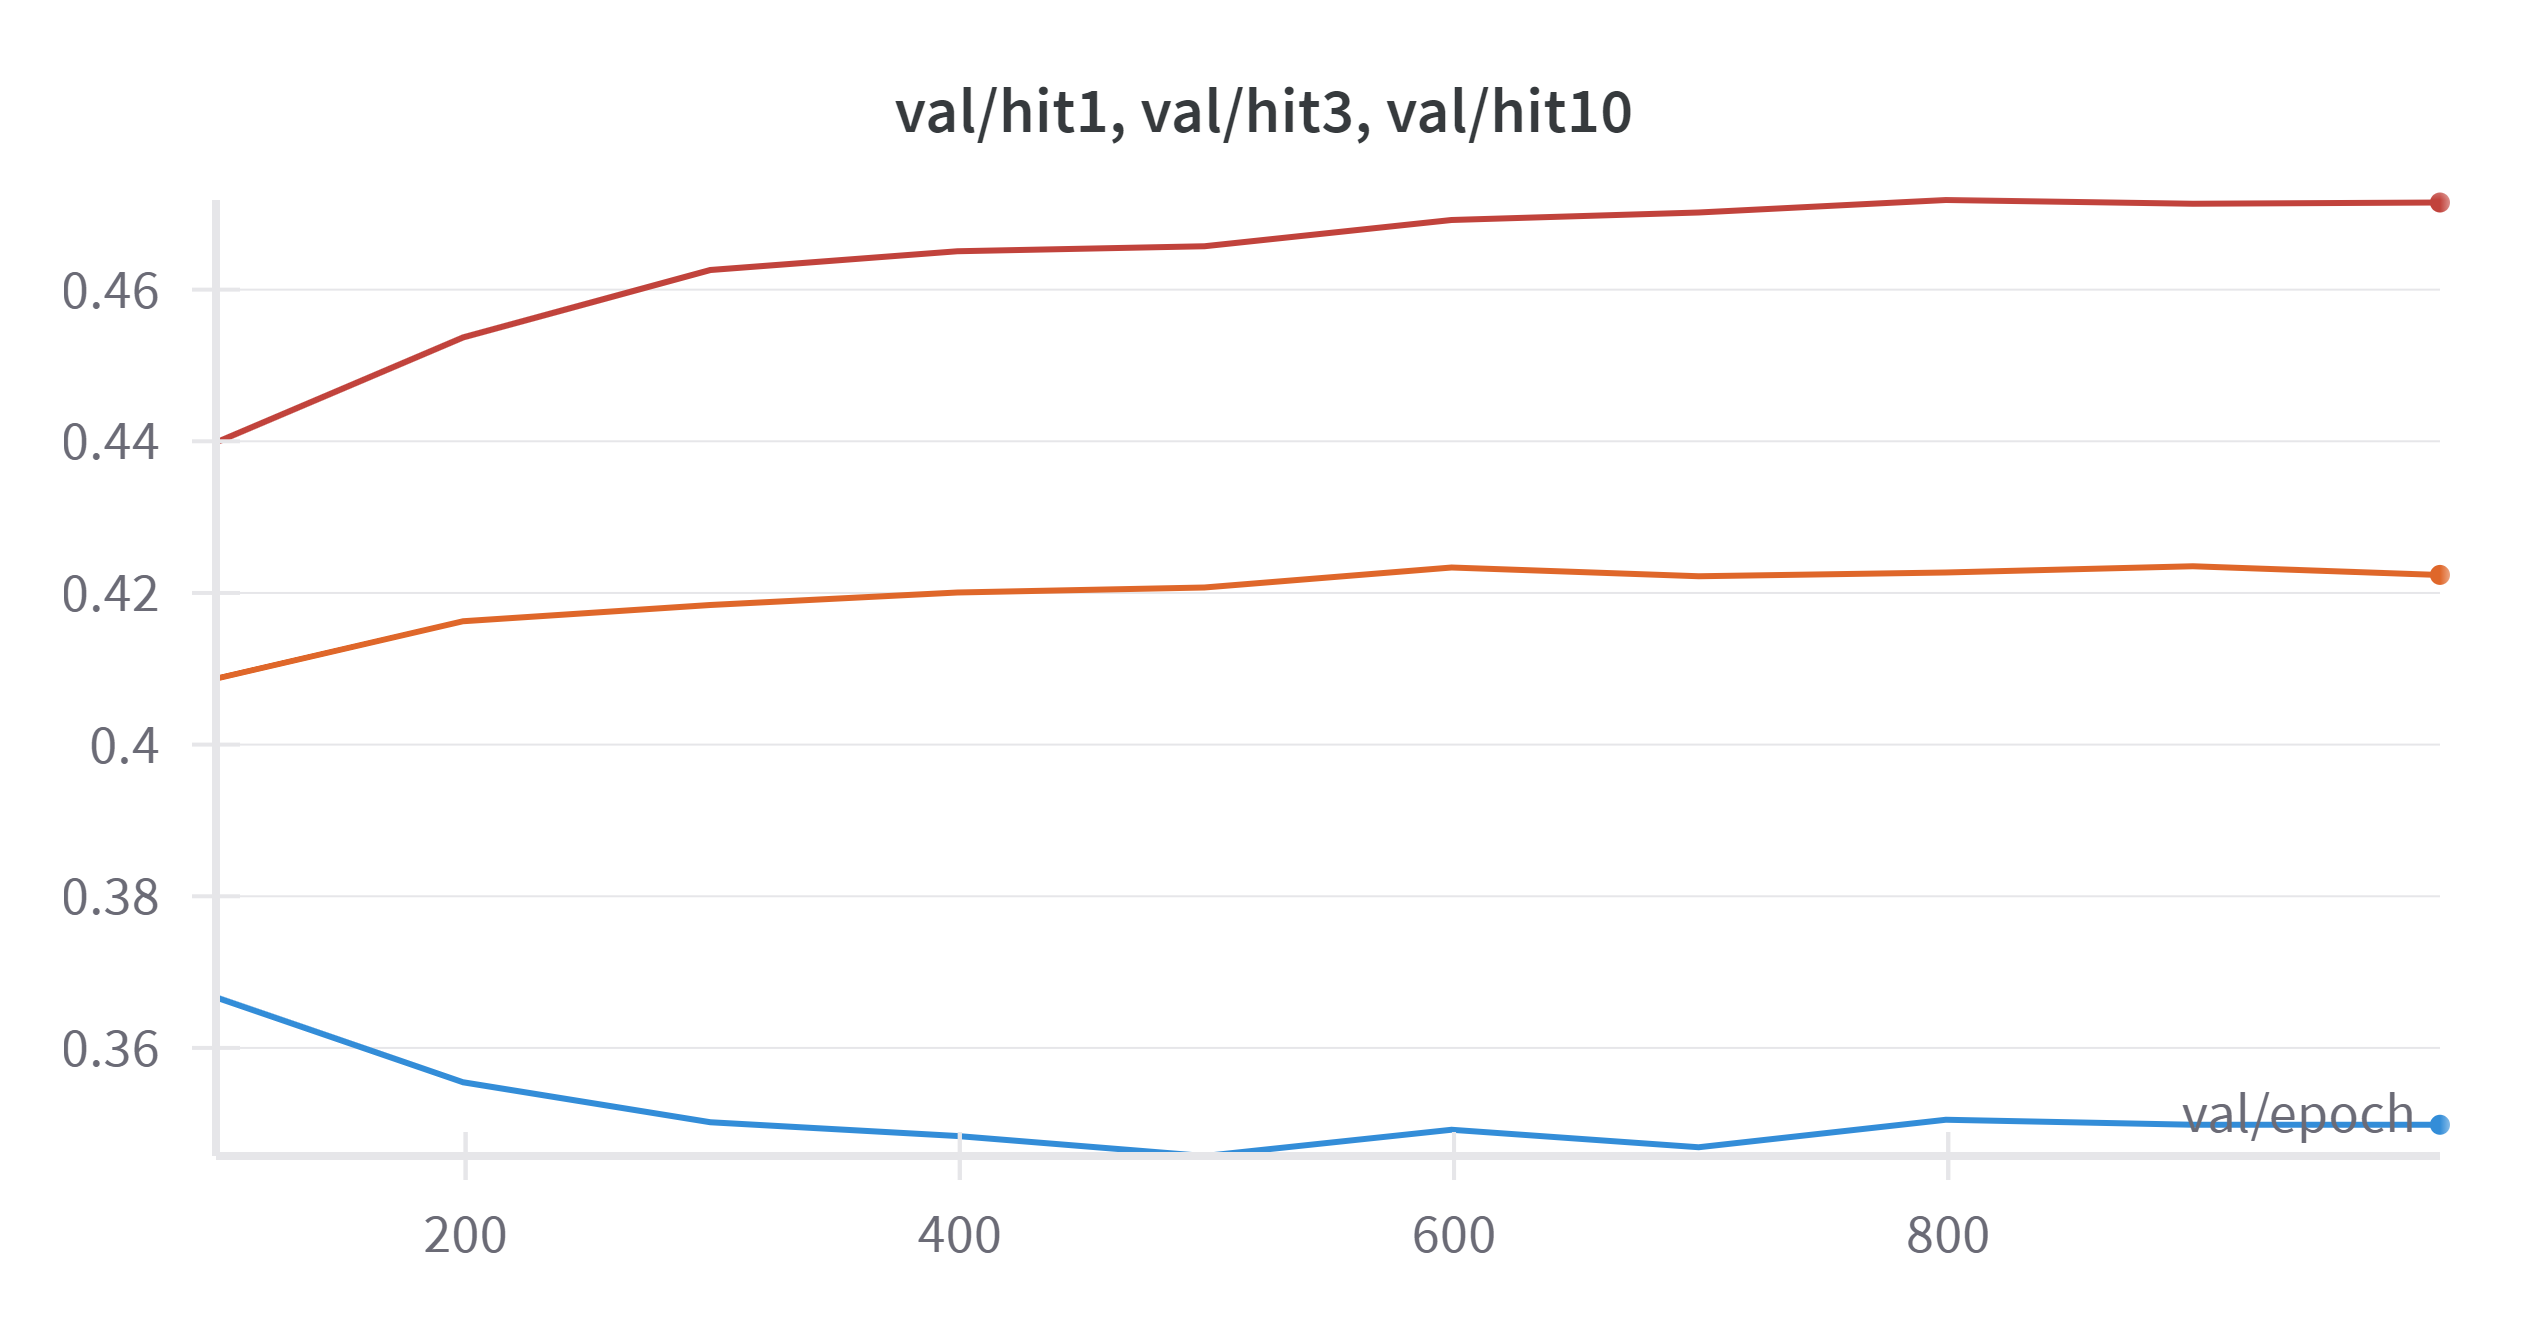
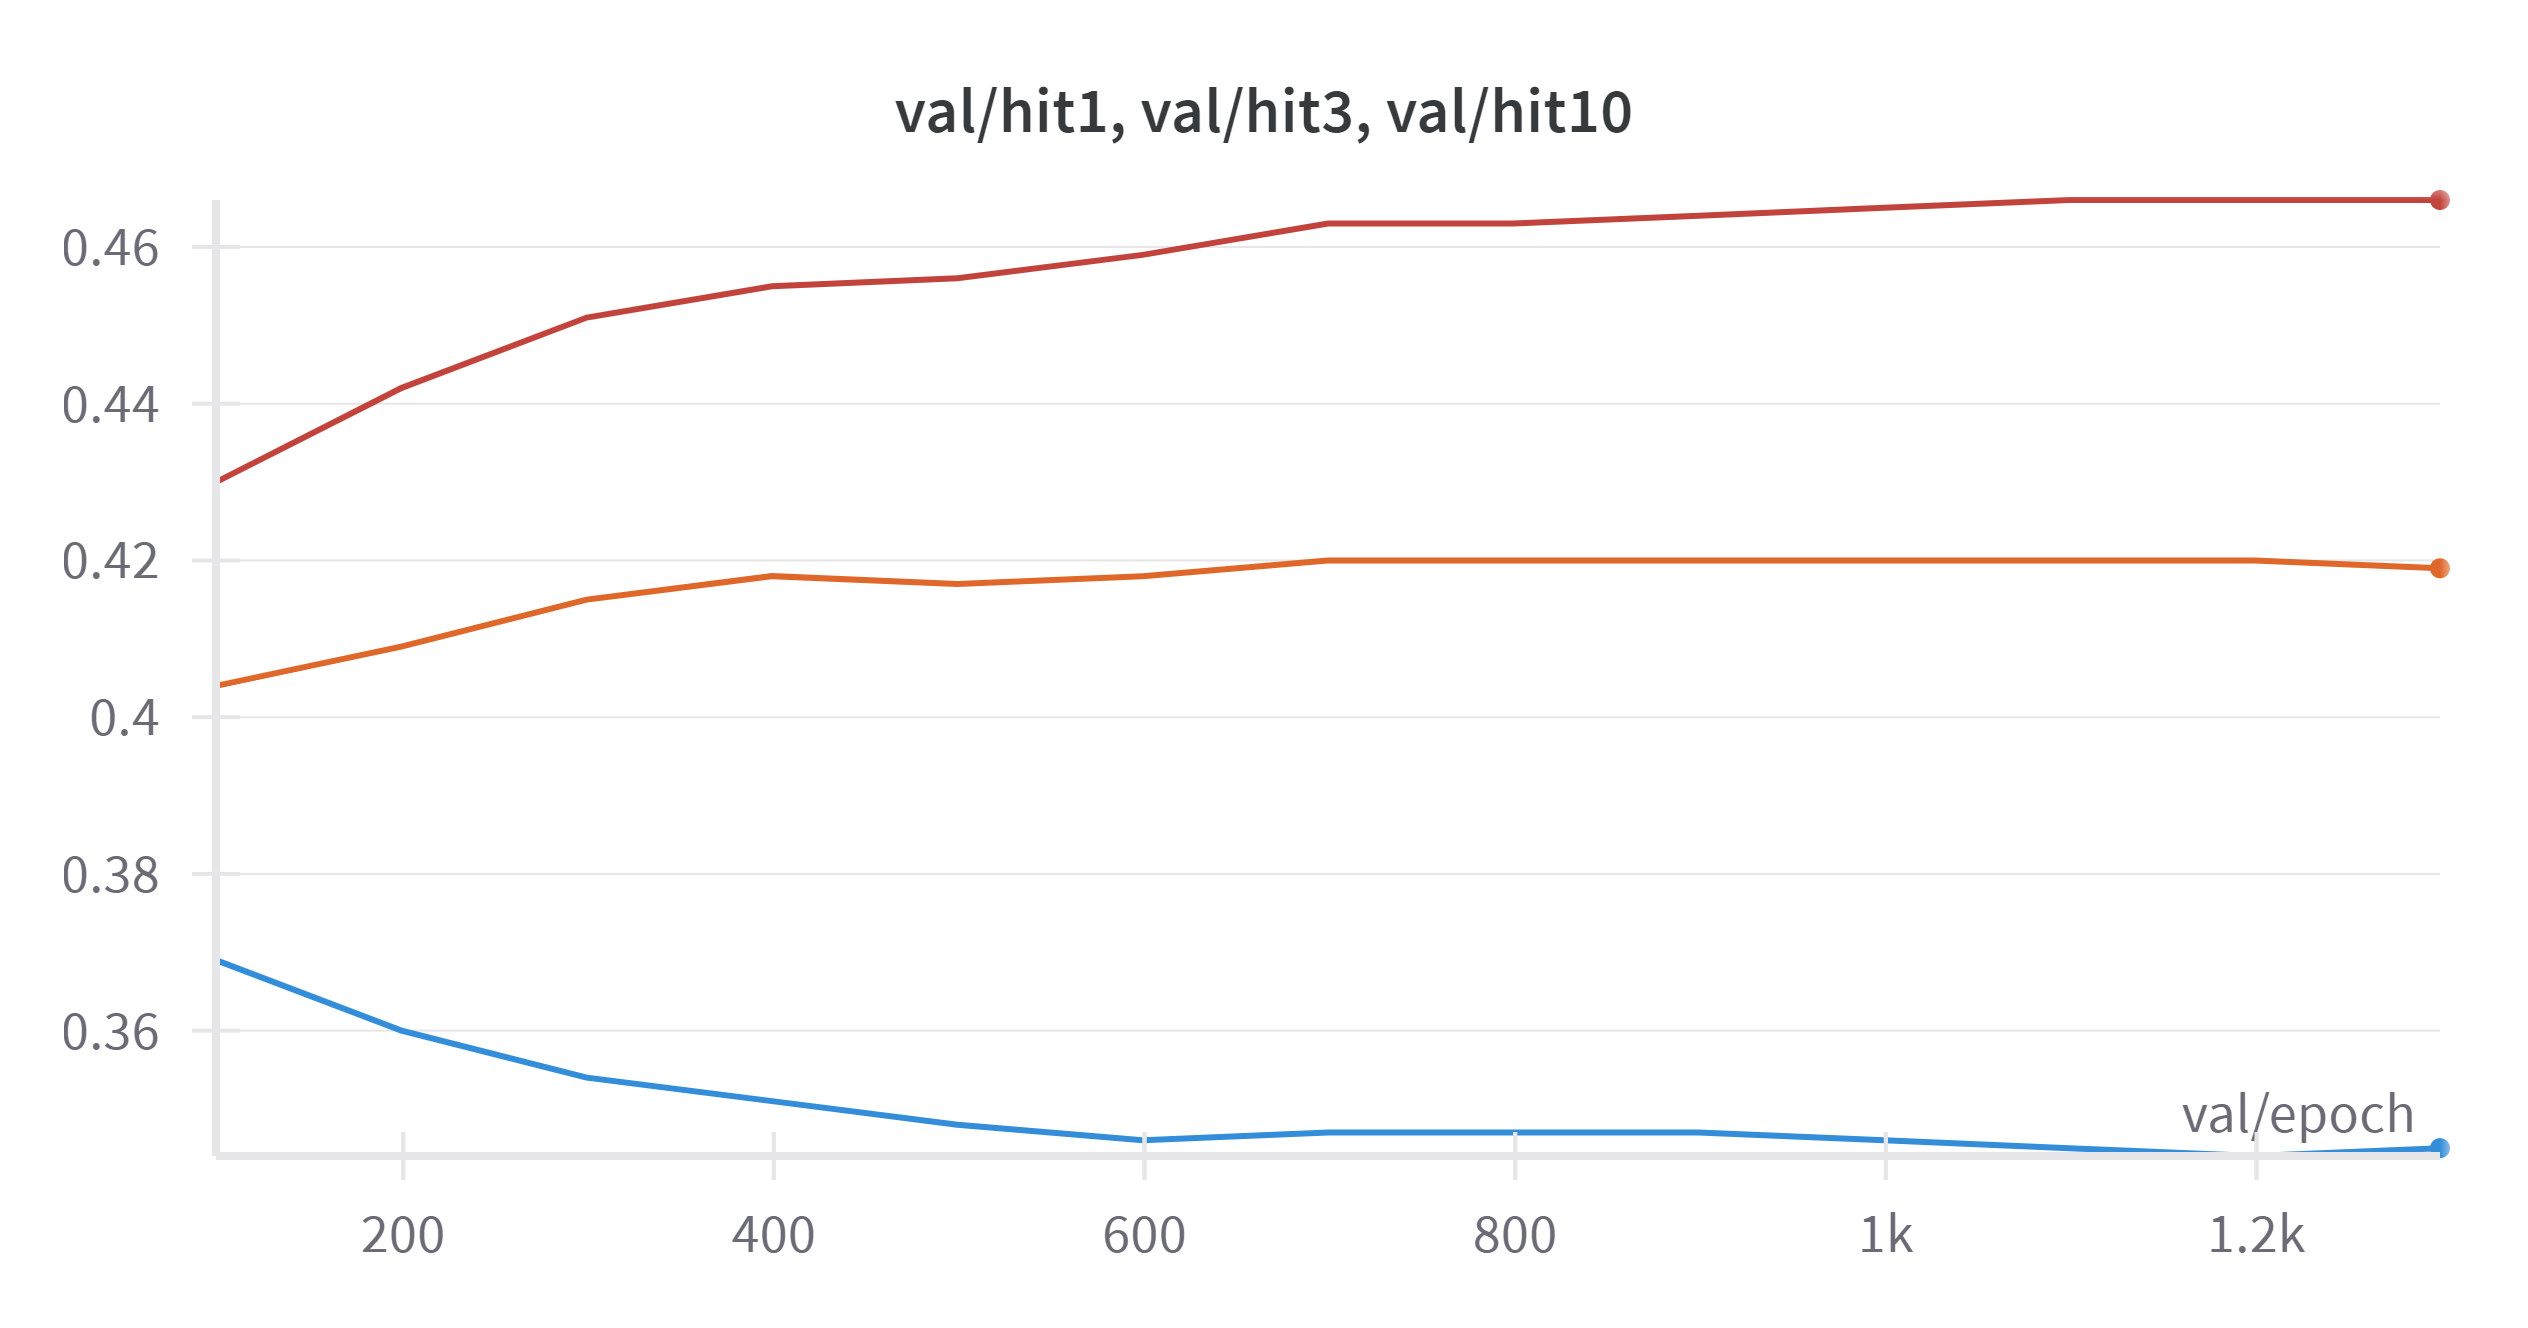
修改 ANALOGY 实现

diff --git a/pybind11_ke/module/model/Analogy.py b/pybind11_ke/module/model/Analogy.py
@@ -3,7 +3,7 @@
 # pybind11_ke/module/model/Analogy.py
 # 
 # git pull from OpenKE-PyTorch by LuYF-Lemon-love <luyanfeng_nlp@qq.com> on May 7, 2023
-# updated by LuYF-Lemon-love <luyanfeng_nlp@qq.com> on Jan 13, 2023
+# updated by LuYF-Lemon-love <luyanfeng_nlp@qq.com> on Jan 31, 2024
 # 
 # 该头文件定义了 Analogy.
 
@@ -13,7 +13,6 @@ Analogy 类 - DistMult、HolE 和 ComplEx 的集大成者，效果与 HolE、Com
 
 import torch
 import typing
-import numpy as np
 import torch.nn as nn
 from .Model import Model
 from typing_extensions import override
@@ -91,96 +90,87 @@ class Analogy(Model):
 
 		#: 实体嵌入向量和关系嵌入向量的维度
 		self.dim: int = dim
-		#: 根据实体个数，创建的实体嵌入的实部
-		self.ent_re_embeddings: torch.nn.Embedding = nn.Embedding(self.ent_tol, self.dim)
-		#: 根据实体个数，创建的实体嵌入的虚部
-		self.ent_im_embeddings: torch.nn.Embedding = nn.Embedding(self.ent_tol, self.dim)
-		#: 根据关系个数，创建的关系嵌入的实部
-		self.rel_re_embeddings: torch.nn.Embedding = nn.Embedding(self.rel_tol, self.dim)
-		#: 根据关系个数，创建的关系嵌入的虚部
-		self.rel_im_embeddings: torch.nn.Embedding = nn.Embedding(self.rel_tol, self.dim)
-		#: 根据实体个数，创建的实体嵌入，维度为 2 * :py:attr:`dim`
-		self.ent_embeddings: torch.nn.Embedding = nn.Embedding(self.ent_tol, self.dim * 2)
-		#: 根据关系个数，创建的关系嵌入, 维度为 2 * :py:attr:`dim`
-		self.rel_embeddings: torch.nn.Embedding = nn.Embedding(self.rel_tol, self.dim * 2)
+		#: 根据实体个数，创建的实体嵌入
+		self.ent_embeddings: torch.nn.Embedding = nn.Embedding(self.ent_tol, self.dim * 4)
+		#: 根据关系个数，创建的关系嵌入
+		self.rel_embeddings: torch.nn.Embedding = nn.Embedding(self.rel_tol, self.dim * 4)
 		
-		nn.init.xavier_uniform_(self.ent_re_embeddings.weight.data)
-		nn.init.xavier_uniform_(self.ent_im_embeddings.weight.data)
-		nn.init.xavier_uniform_(self.rel_re_embeddings.weight.data)
-		nn.init.xavier_uniform_(self.rel_im_embeddings.weight.data)
 		nn.init.xavier_uniform_(self.ent_embeddings.weight.data)
 		nn.init.xavier_uniform_(self.rel_embeddings.weight.data)
-
-	def _calc(
-		self,
-		h_re: torch.Tensor,
-		h_im: torch.Tensor,
-		h: torch.Tensor,
-		t_re: torch.Tensor,
-		t_im: torch.Tensor,
-		t: torch.Tensor,
-		r_re: torch.Tensor,
-		r_im: torch.Tensor,
-		r: torch.Tensor) -> torch.Tensor:
-
-		"""计算 Analogy 的评分函数。
-		
-		:param h_re: 头实体的实部向量。
-		:type h_re: torch.Tensor
-		:param h_im: 头实体的虚部向量。
-		:type h_im: torch.Tensor
-		:param h: 头实体的向量。
-		:type h: torch.Tensor
-		:param t_re: 尾实体的实部向量。
-		:type t_re: torch.Tensor
-		:param t_im: 尾实体的虚部向量。
-		:type t_im: torch.Tensor
-		:param t: 尾实体的向量。
-		:type t: torch.Tensor
-		:param r_re: 关系的实部向量。
-		:type r_re: torch.Tensor
-		:param r_im: 关系的虚部向量。
-		:type r_im: torch.Tensor
-		:param r: 关系的向量。
-		:type r: torch.Tensor
-		:returns: 三元组的得分
-		:rtype: torch.Tensor
-		"""
-
-		return (torch.sum(r_re * h_re * t_re +
-						   r_re * h_im * t_im +
-						   r_im * h_re * t_im -
-						   r_im * h_im * t_re, -1)
-				+ torch.sum(h * t * r, -1))
 
 	@override
 	def forward(
 		self,
-		data: dict[str, typing.Union[torch.Tensor, str]]) -> torch.Tensor:
-		
+		triples: torch.Tensor,
+		negs: torch.Tensor = None,
+		mode: str = 'single') -> torch.Tensor:
+
 		"""
 		定义每次调用时执行的计算。
 		:py:class:`torch.nn.Module` 子类必须重写 :py:meth:`torch.nn.Module.forward`。
 		
-		:param data: 数据。
-		:type data: dict[str, typing.Union[torch.Tensor, str]]
+		:param triples: 正确的三元组
+		:type triples: torch.Tensor
+		:param negs: 负三元组类别
+		:type negs: torch.Tensor
+		:param mode: 模式
+		:type triples: str
 		:returns: 三元组的得分
 		:rtype: torch.Tensor
 		"""
 
-		batch_h = data['batch_h']
-		batch_t = data['batch_t']
-		batch_r = data['batch_r']
-		h_re = self.ent_re_embeddings(batch_h)
-		h_im = self.ent_im_embeddings(batch_h)
-		h = self.ent_embeddings(batch_h)
-		t_re = self.ent_re_embeddings(batch_t)
-		t_im = self.ent_im_embeddings(batch_t)
-		t = self.ent_embeddings(batch_t)
-		r_re = self.rel_re_embeddings(batch_r)
-		r_im = self.rel_im_embeddings(batch_r)
-		r = self.rel_embeddings(batch_r)
-		score = self._calc(h_re, h_im, h, t_re, t_im, t, r_re, r_im, r)
+		head_emb, relation_emb, tail_emb = self.tri2emb(triples, negs, mode)
+		score = self._calc(head_emb, relation_emb, tail_emb)
+		return score
+
+	def _calc(
+		self,
+		head_emb: torch.Tensor,
+		relation_emb: torch.Tensor,
+		tail_emb: torch.Tensor) -> torch.Tensor:
+
+		"""计算 Analogy 的评分函数。
+		
+		:param head_emb: 头实体的向量。
+		:type head_emb: torch.Tensor
+		:param relation_emb: 关系的向量。
+		:type relation_emb: torch.Tensor
+		:param tail_emb: 尾实体的向量。
+		:type tail_emb: torch.Tensor
+		:returns: 三元组的得分
+		:rtype: torch.Tensor
+		"""
+
+		head, h = torch.chunk(head_emb, 2, dim=-1)
+		h_re, h_im = torch.chunk(head, 2, dim=-1)
+		relation, r = torch.chunk(relation_emb, 2, dim=-1)
+		r_re, r_im = torch.chunk(relation, 2, dim=-1)
+		tail, t = torch.chunk(tail_emb, 2, dim=-1)
+		t_re, t_im = torch.chunk(tail, 2, dim=-1)
+
+		return (torch.sum(r_re * h_re * t_re +
+						  r_re * h_im * t_im +
+						  r_im * h_re * t_im -
+						  r_im * h_im * t_re, -1)
+					+ torch.sum(h * t * r, -1))
+
+	@override
+	def predict(
+		self,
+		data: dict[str, typing.Union[torch.Tensor,str]],
+		mode) -> torch.Tensor:
+		
+		"""Analogy 的推理方法。
+		
+		:param data: 数据。
+		:type data: dict[str, typing.Union[torch.Tensor,str]]
+		:returns: 三元组的得分
+		:rtype: torch.Tensor
+		"""
+
+		triples = data["positive_sample"]
+		head_emb, relation_emb, tail_emb = self.tri2emb(triples, mode=mode)
+		score = self._calc(head_emb, relation_emb, tail_emb)
 		return score
 
 	def regularization(
@@ -195,44 +185,26 @@ class Analogy(Model):
 		:rtype: torch.Tensor
 		"""
 
-		batch_h = data['batch_h']
-		batch_t = data['batch_t']
-		batch_r = data['batch_r']
-		h_re = self.ent_re_embeddings(batch_h)
-		h_im = self.ent_im_embeddings(batch_h)
-		h = self.ent_embeddings(batch_h)
-		t_re = self.ent_re_embeddings(batch_t)
-		t_im = self.ent_im_embeddings(batch_t)
-		t = self.ent_embeddings(batch_t)
-		r_re = self.rel_re_embeddings(batch_r)
-		r_im = self.rel_im_embeddings(batch_r)
-		r = self.rel_embeddings(batch_r)
-		regul = (torch.mean(h_re ** 2) + 
-				 torch.mean(h_im ** 2) + 
-				 torch.mean(h ** 2) + 
-				 torch.mean(t_re ** 2) + 
-				 torch.mean(t_im ** 2) + 
-				 torch.mean(t ** 2) + 
-				 torch.mean(r_re ** 2) + 
-				 torch.mean(r_im ** 2) + 
-				 torch.mean(r ** 2)) / 9
-		return regul
+		pos_sample = data["positive_sample"]
+		neg_sample = data["negative_sample"]
+		mode = data["mode"]
+		pos_head_emb, pos_relation_emb, pos_tail_emb = self.tri2emb(pos_sample)
+		if mode == "bern":
+			neg_head_emb, neg_relation_emb, neg_tail_emb = self.tri2emb(neg_sample)
+		else:
+			neg_head_emb, neg_relation_emb, neg_tail_emb = self.tri2emb(pos_sample, neg_sample, mode)
 
-	@override
-	def predict(
-		self,
-		data: dict[str, typing.Union[torch.Tensor,str]]) -> np.ndarray:
+		pos_regul = (torch.mean(pos_head_emb ** 2) + 
+					 torch.mean(pos_relation_emb ** 2) + 
+					 torch.mean(pos_tail_emb ** 2)) / 3
 
-		"""Analogy 的推理方法。
+		neg_regul = (torch.mean(neg_head_emb ** 2) + 
+					 torch.mean(neg_relation_emb ** 2) + 
+					 torch.mean(neg_tail_emb ** 2)) / 3
+
+		regul = (pos_regul + neg_regul) / 2
 		
-		:param data: 数据。
-		:type data: dict[str, typing.Union[torch.Tensor,str]]
-		:returns: 三元组的得分
-		:rtype: numpy.ndarray
-		"""
-
-		score = -self.forward(data)
-		return score.cpu().data.numpy()
+		return regul
 
 def get_analogy_hpo_config() -> dict[str, dict[str, typing.Any]]:
 

diff --git a/examples/ANALOGY/single_gpu_analogy_WN18RR_wandb.py b/examples/ANALOGY/single_gpu_analogy_WN18RR_wandb.py
@@ -10,31 +10,29 @@ ANALOGY-WN18RR-single-gpu-wandb
 
 导入数据
 -----------------
-pybind11-OpenKE 有两个工具用于导入数据: :py:class:`pybind11_ke.data.TrainDataLoader` 和
-:py:class:`pybind11_ke.data.TestDataLoader`。
+pybind11-OpenKE 有两个工具用于导入数据: :py:class:`pybind11_ke.data.KGEDataLoader`。
 """
 
 from pybind11_ke.utils import WandbLogger
-from pybind11_ke.config import Trainer, Tester
+from pybind11_ke.data import KGEDataLoader, BernSampler, TradTestSampler
 from pybind11_ke.module.model import Analogy
 from pybind11_ke.module.loss import SoftplusLoss
 from pybind11_ke.module.strategy import NegativeSampling
-from pybind11_ke.data import TrainDataLoader, TestDataLoader
+from pybind11_ke.config import TradTrainer, Tester
 
 ######################################################################
 # 首先初始化 :py:class:`pybind11_ke.utils.WandbLogger` 日志记录器，它是对 wandb 初始化操作的一层简单封装。
 
 wandb_logger = WandbLogger(
 	project="pybind11-ke",
-	name="analogy",
+	name="ANALOGY-WN18RR",
 	config=dict(
 		in_path = '../../benchmarks/WN18RR/',
-		nbatches = 100,
-		threads = 2,
-		sampling_mode = 'normal',
-		bern = True,
+		batch_size = 4096,
 		neg_ent = 25,
-		neg_rel = 0,
+		test = True,
+		test_batch_size = 10,
+		num_workers = 16,
 		dim = 200,
 		regul_rate = 1.0,
 		use_gpu = True,
@@ -42,7 +40,6 @@ wandb_logger = WandbLogger(
 		epochs = 2000,
 		lr = 0.5,
 		opt_method = 'adagrad',
-		test = True,
 		valid_interval = 100,
 		log_interval = 100,
 		save_interval = 100,
@@ -55,17 +52,18 @@ config = wandb_logger.config
 
 ######################################################################
 # pybind11-KE 提供了很多数据集，它们很多都是 KGE 原论文发表时附带的数据集。
-# :py:class:`pybind11_ke.data.TrainDataLoader` 包含 ``in_path`` 用于传递数据集目录。
+# :py:class:`pybind11_ke.data.KGEDataLoader` 包含 ``in_path`` 用于传递数据集目录。
 
 # dataloader for training
-train_dataloader = TrainDataLoader(
+dataloader = KGEDataLoader(
 	in_path = config.in_path, 
-	nbatches = config.nbatches,
-	threads = config.threads, 
-	sampling_mode = config.sampling_mode, 
-	bern = config.bern, 
+	batch_size = config.batch_size,
 	neg_ent = config.neg_ent,
-	neg_rel = config.neg_rel
+	test = config.test,
+	test_batch_size = config.test_batch_size,
+	num_workers = config.num_workers,
+	train_sampler = BernSampler,
+	test_sampler = TradTestSampler
 )
 
 ######################################################################
@@ -80,8 +78,8 @@ train_dataloader = TrainDataLoader(
 
 # define the model
 analogy = Analogy(
-	ent_tol = train_dataloader.get_ent_tol(),
-	rel_tol = train_dataloader.get_rel_tol(),
+	ent_tol = dataloader.get_ent_tol(),
+	rel_tol = dataloader.get_rel_tol(),
 	dim = config.dim
 )
 
@@ -101,7 +99,6 @@ analogy = Analogy(
 model = NegativeSampling(
 	model = analogy, 
 	loss = SoftplusLoss(),
-	batch_size = train_dataloader.get_batch_size(), 
 	regul_rate = config.regul_rate
 )
 
@@ -112,20 +109,16 @@ model = NegativeSampling(
 ######################################################################
 # 训练模型
 # -------------
-# pybind11-OpenKE 将训练循环包装成了 :py:class:`pybind11_ke.config.Trainer`，
-# 可以运行它的 :py:meth:`pybind11_ke.config.Trainer.run` 函数进行模型学习；
+# pybind11-OpenKE 将训练循环包装成了 :py:class:`pybind11_ke.config.TradTrainer`，
+# 可以运行它的 :py:meth:`pybind11_ke.config.TradTrainer.run` 函数进行模型学习；
 # 也可以通过传入 :py:class:`pybind11_ke.config.Tester`，
-# 使得训练器能够在训练过程中评估模型；:py:class:`pybind11_ke.config.Tester` 使用
-# :py:class:`pybind11_ke.data.TestDataLoader` 作为数据采样器。
-
-# dataloader for test
-test_dataloader = TestDataLoader(in_path = config.in_path)
+# 使得训练器能够在训练过程中评估模型。
 	
 # test the model
-tester = Tester(model = analogy, data_loader = test_dataloader, use_gpu = config.use_gpu, device = config.device)
+tester = Tester(model = analogy, data_loader = dataloader, use_gpu = config.use_gpu, device = config.device)
 
 # train the model
-trainer = Trainer(model = model, data_loader = train_dataloader,
+trainer = TradTrainer(model = model, data_loader = dataloader.train_dataloader(),
 	epochs = config.epochs, lr = config.lr, opt_method = config.opt_method,
 	use_gpu = config.use_gpu, device = config.device,
 	tester = tester, test = config.test, valid_interval = config.valid_interval,
